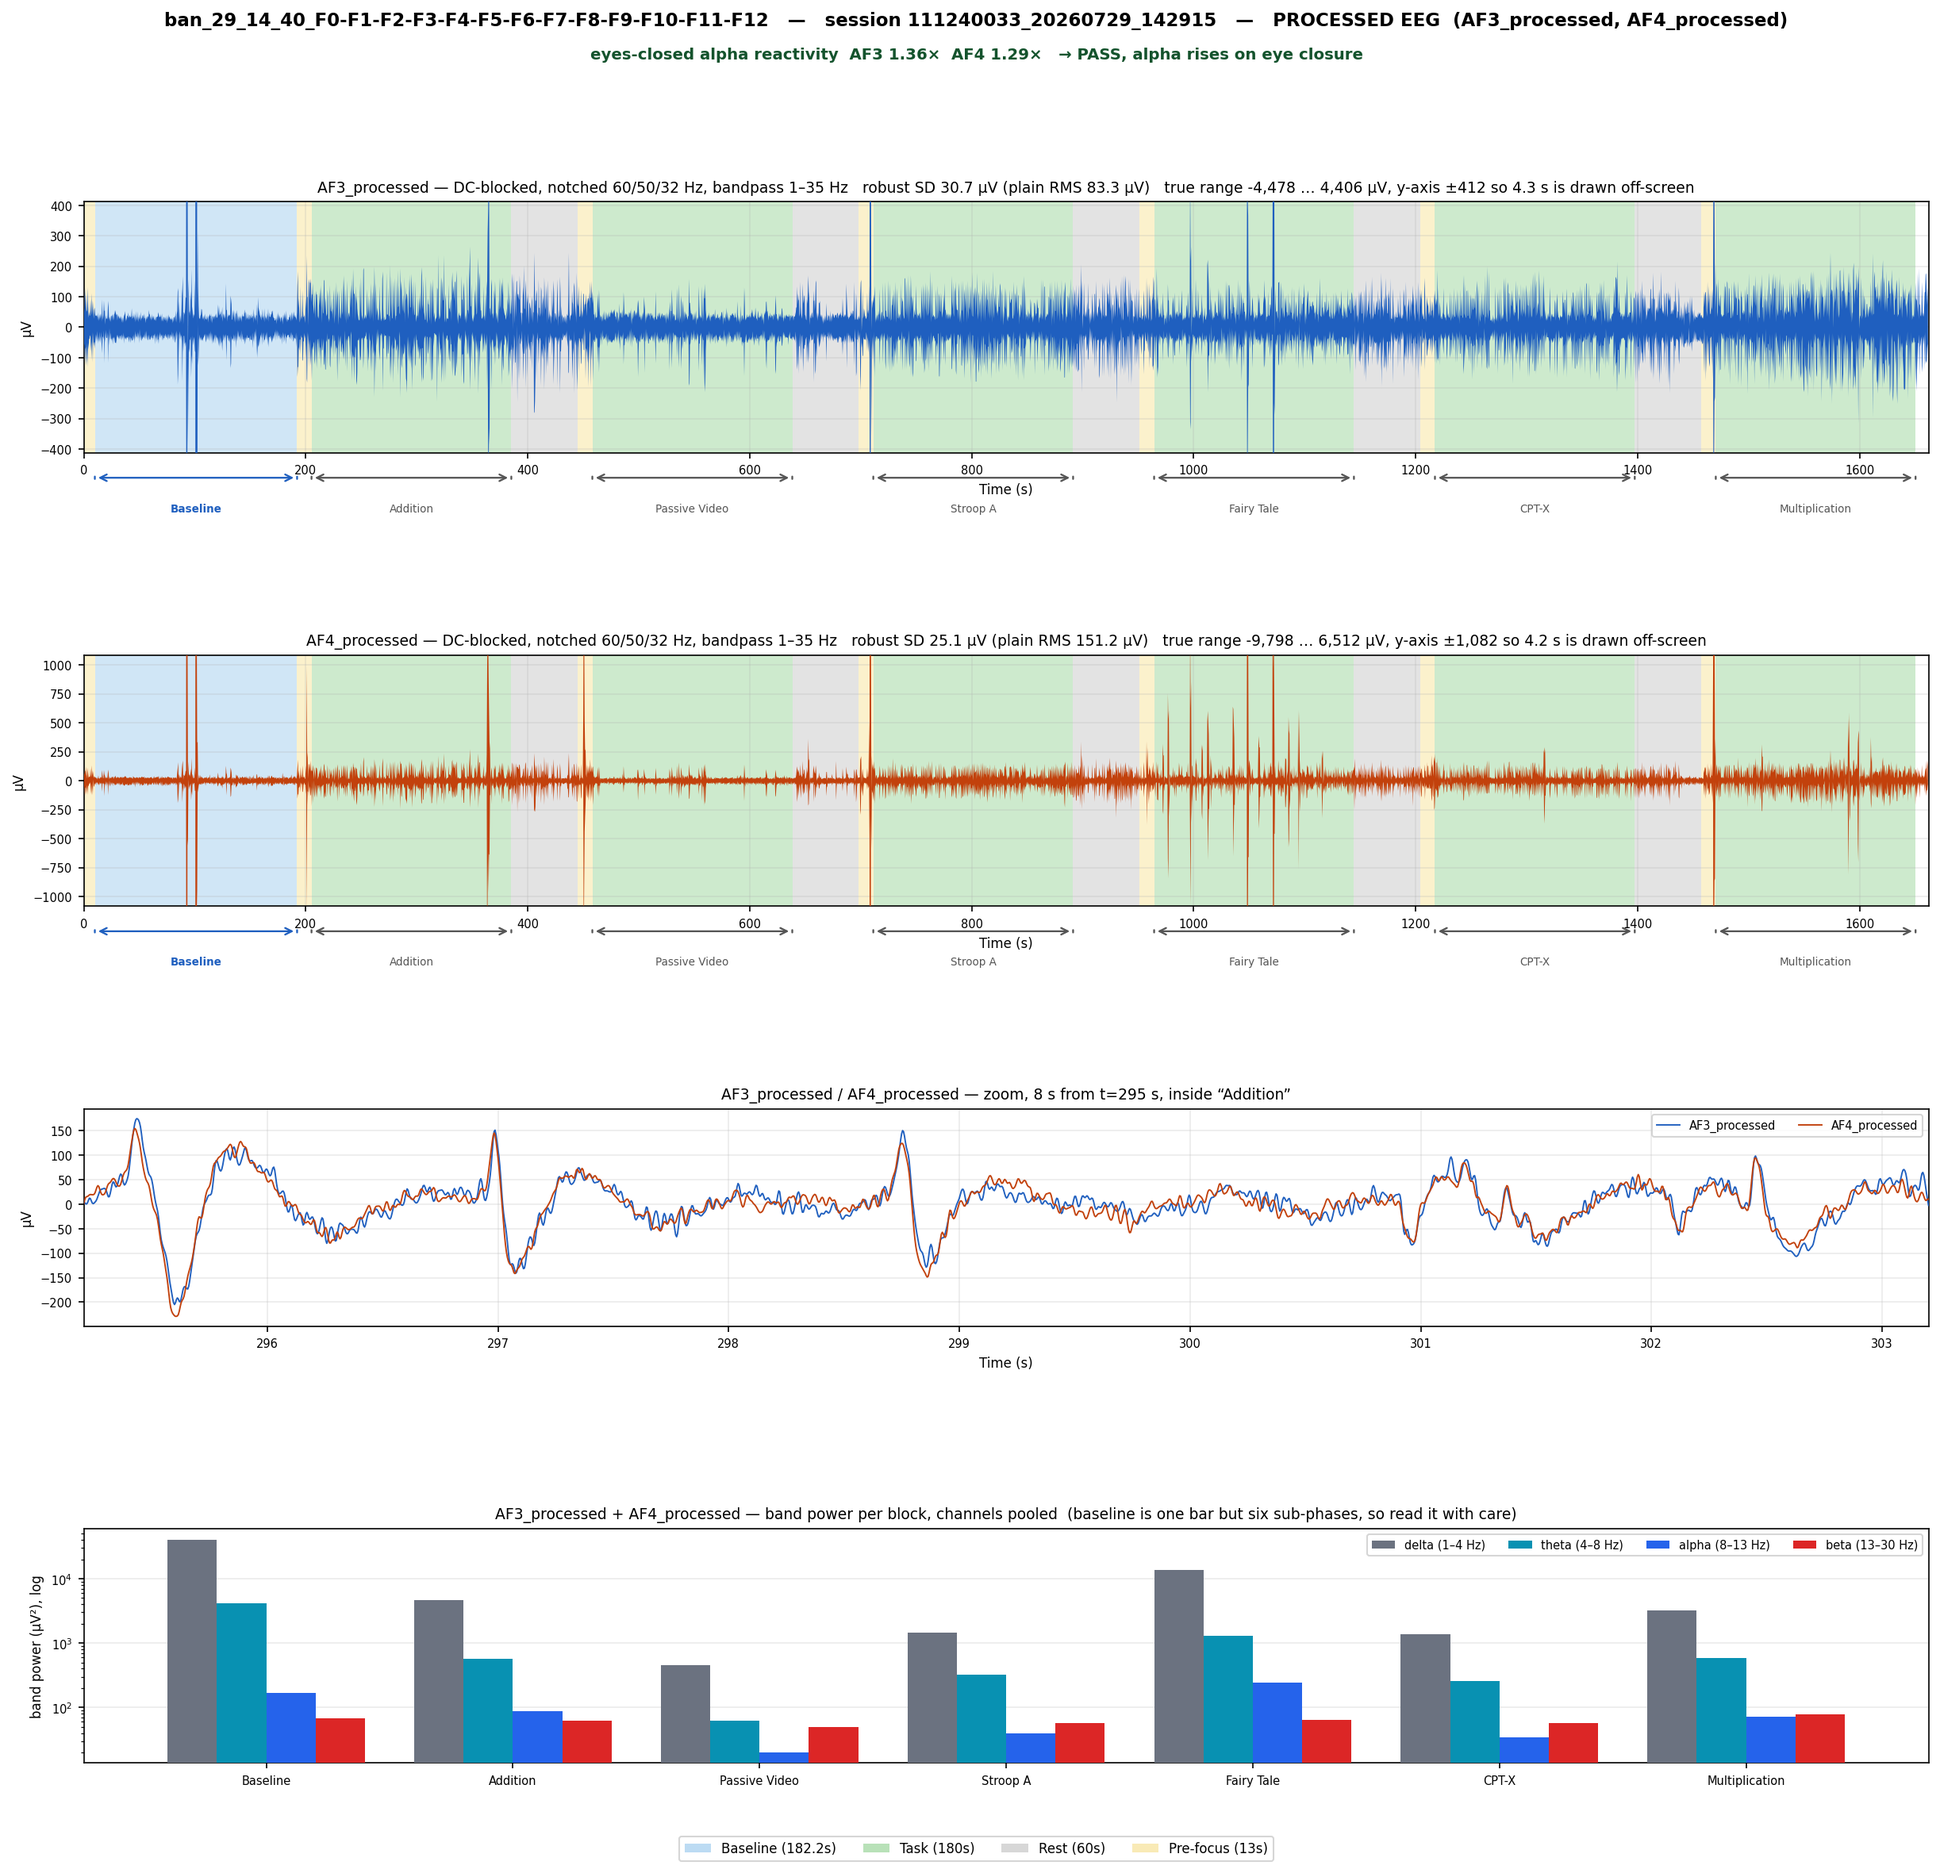
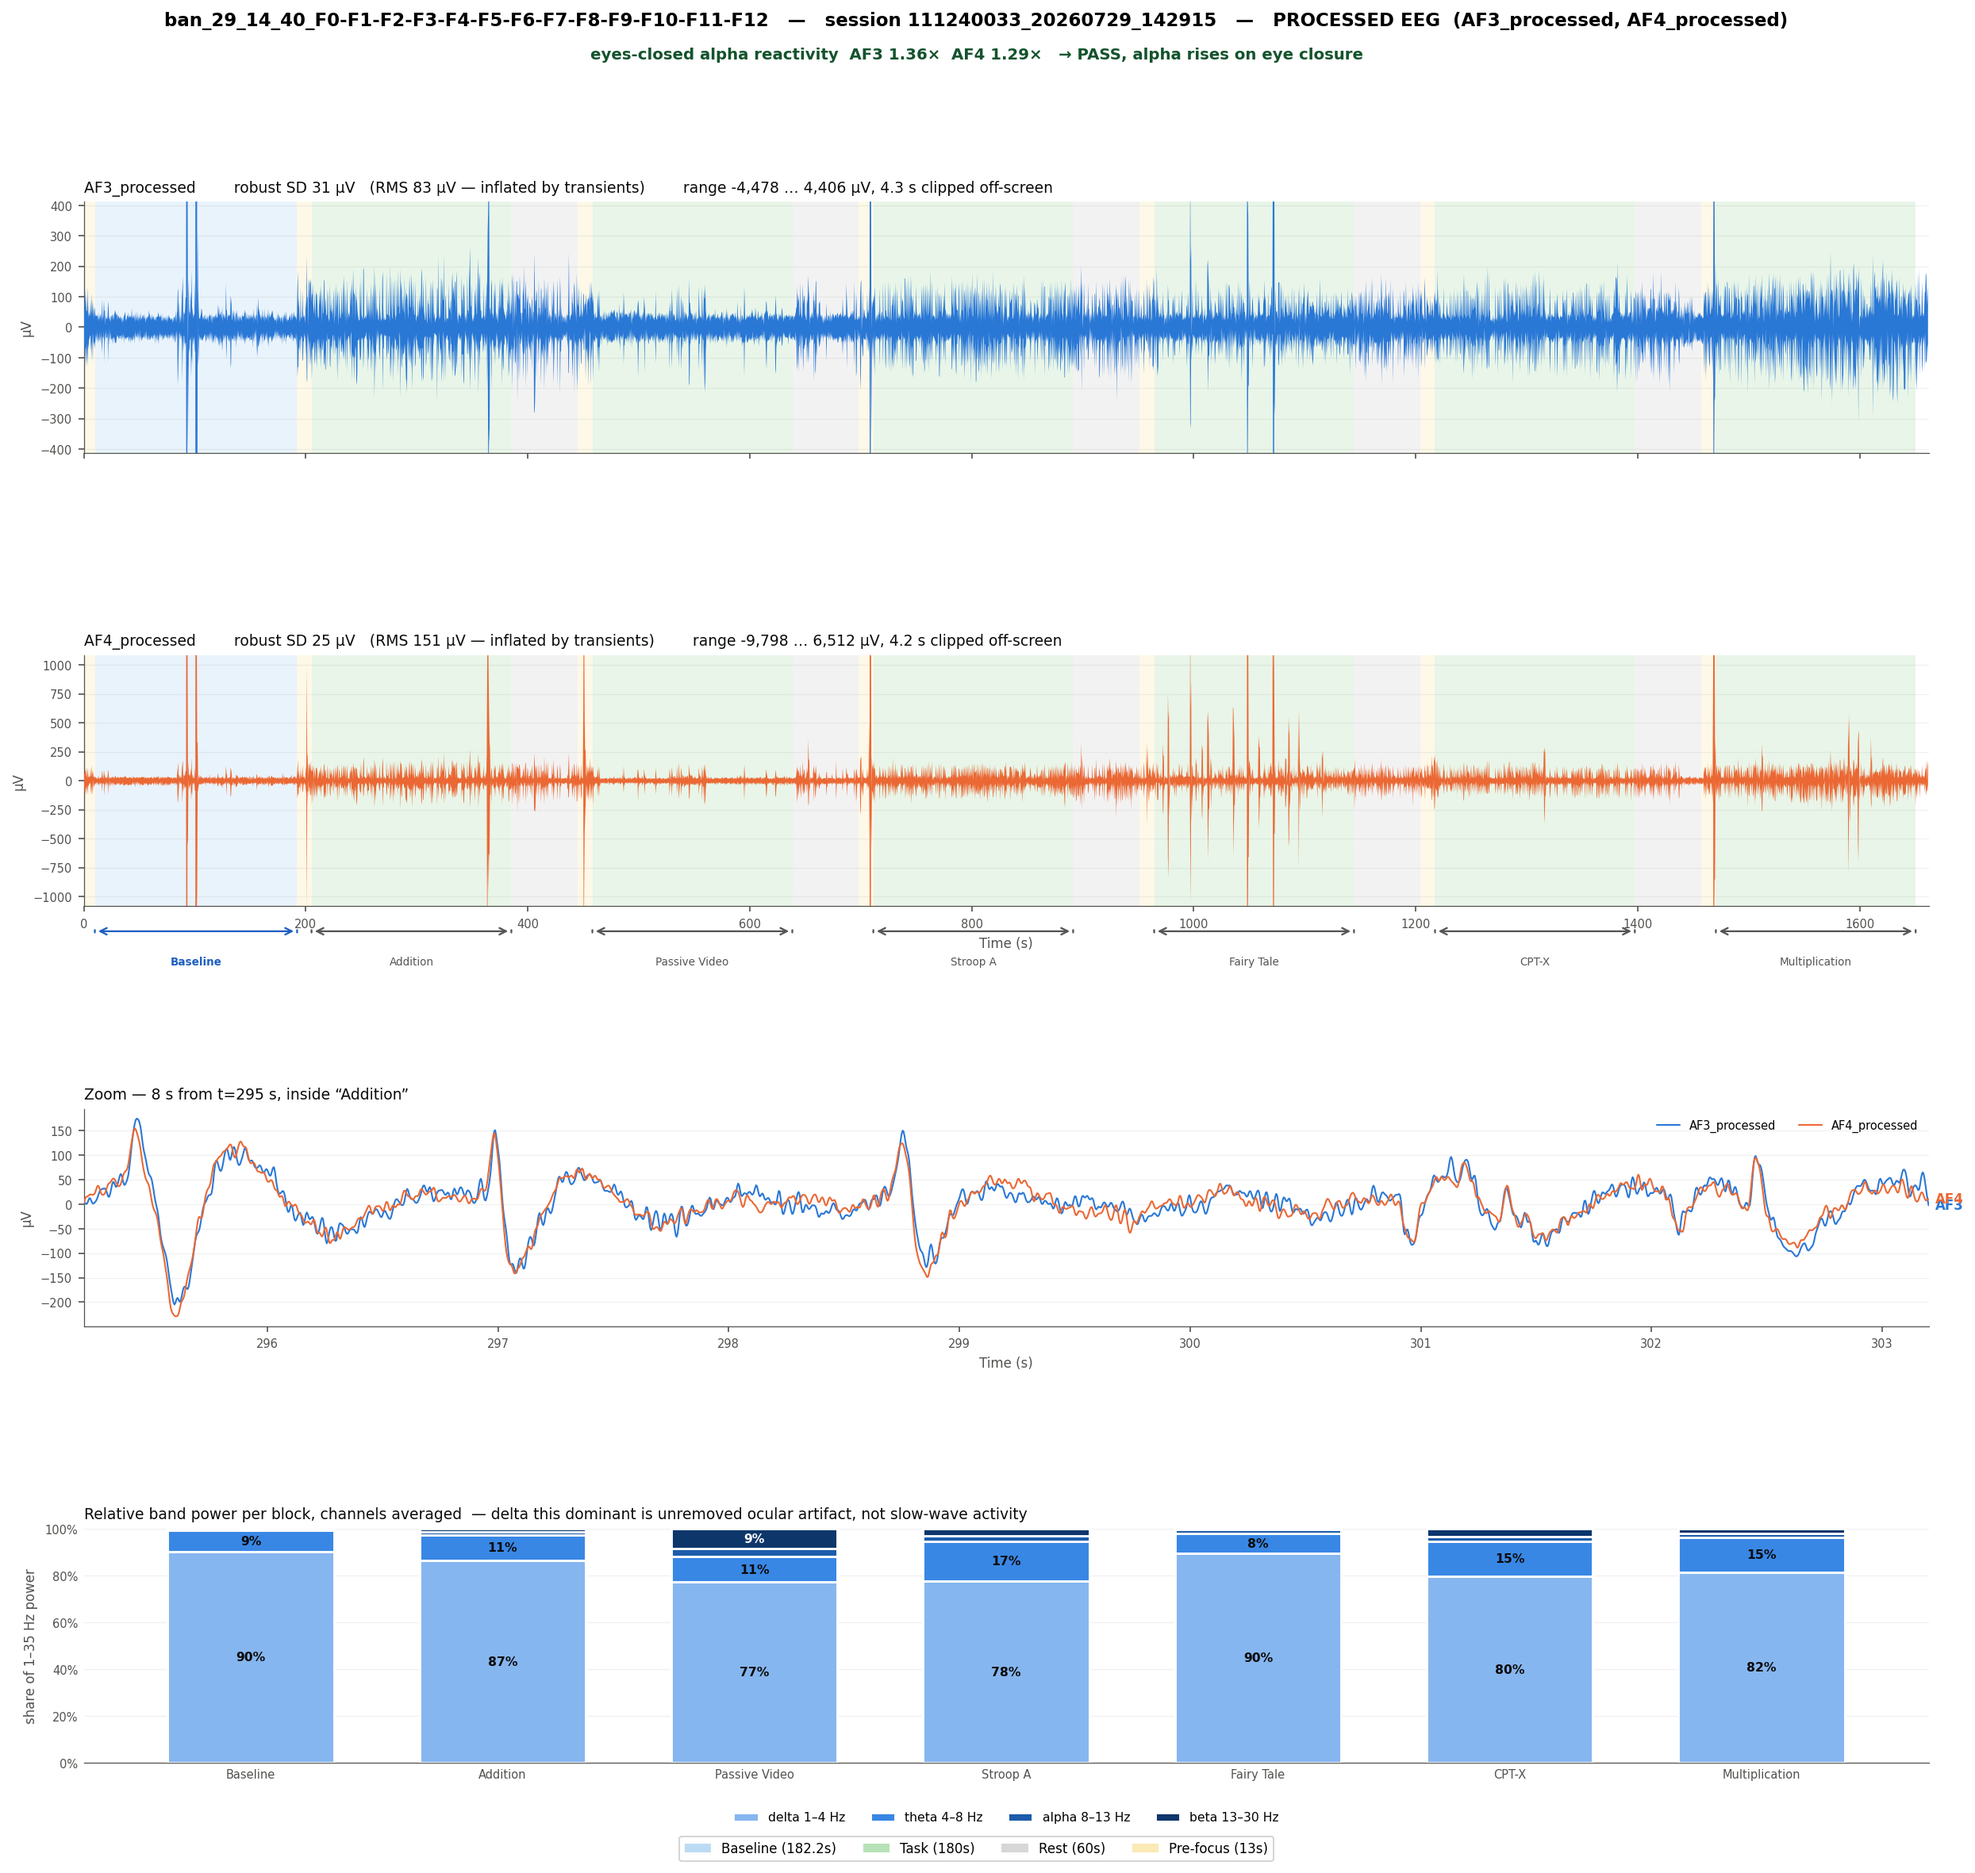
Redesign the EEG figure: relative band power, recessive shading, validated palette
The log-scale grouped bars were the worst part: delta outweighs beta ~100x, so a log axis was the only way absolute values fit, and a log axis makes a 100x gap look like a small step. Replaced with each block's share of 1-35 Hz power as stacked bars - no log axis, sums to 100%, and it answers the actual question. It immediately shows delta at 77-90% of all power, which is unremoved ocular artifact.

Colour now assigned by job and validated rather than picked: AF3/AF4 are categorical slots 1-2 (CVD dE 24.7 vs 8 target, normal-vision 33.6 vs 15 floor); the four frequency bands are ORDERED so they take a one-hue ordinal ramp light-to-dark instead of a rainbow (monotone L, min step gap 0.141, light end 2.06:1, hue spread 3.6deg).

Noise reduction: block shading 0.35 -> 0.16 so the trace reads over it, one block ruler under the stacked pair instead of one per panel, top/right spines dropped, thinner y-only grid, left-aligned shorter titles, direct labels on the zoom traces. shade_timeline gained alpha= and annotate= with backward-compatible defaults, so the summary and FI figures are unchanged.

diff --git a/code/analysis/plot_eeg.py b/code/analysis/plot_eeg.py
@@ -79,11 +79,23 @@ BEHAVIORS_DIR = os.path.join(REPO_ROOT, "code", "results", "behaviors")
 EDF_DIR       = os.path.join(REPO_ROOT, "data", "derived", "eeg_bl", "edf")
 GRAPH_DIR     = os.path.join(REPO_ROOT, "graph", "eeg_bl")
 
-BANDS = [("delta", 1, 4, "#6b7280"), ("theta", 4, 8, "#0891b2"),
-         ("alpha", EEG_ALPHA[0], EEG_ALPHA[1], "#2563eb"),
-         ("beta", EEG_BETA[0], EEG_BETA[1], "#dc2626")]
+#: Frequency bands are ORDERED (delta → beta), so they take a one-hue ordinal
+#: ramp light→dark rather than four categorical hues — a rainbow here would imply
+#: the bands are unrelated categories. Steps 250/400/550/700 of the blue ramp;
+#: validated ordinal (monotone L, min step gap 0.141 ≥ 0.06, light end 2.06:1 ≥ 2.0,
+#: hue spread 3.6°).
+BANDS = [("delta", 1, 4, "#86b6ef"),
+         ("theta", 4, 8, "#3987e5"),
+         ("alpha", EEG_ALPHA[0], EEG_ALPHA[1], "#1c5cab"),
+         ("beta", EEG_BETA[0], EEG_BETA[1], "#0d366b")]
 
-CH_COLORS = {"AF3": "#1f5fbf", "AF4": "#c2410c"}
+#: Two channels = categorical identity, same hue for the same channel in every
+#: panel. Slots 1 and 2; validated categorical (CVD ΔE 24.7 ≥ 8 target,
+#: normal-vision ΔE 33.6 ≥ 15 floor, both ≥ 3:1 on the light surface).
+CH_COLORS = {"AF3": "#2a78d6", "AF4": "#eb6834"}
+
+SHADE_ALPHA = 0.16        # recessive: the blocks are context, the trace is data
+INK = "#52514e"           # axis/grid ink, kept off pure black
 
 
 def find_edf(stem):
@@ -190,22 +202,32 @@ def plot_recording(stem, edf_path, quality, windows, title, save_path,
         ax = fig.add_subplot(gs[i])
         x = proc[ch]
         t, lo, hi = envelope(x, fs)
-        shade_timeline(ax, windows, x_scale=1.0, x_max=dur)
+        # Only the lower of the two shares the block ruler — repeating it under
+        # every panel is four copies of one axis.
+        shade_timeline(ax, windows, x_scale=1.0, x_max=dur,
+                       alpha=SHADE_ALPHA, annotate=(i == 1))
         ax.fill_between(t, lo, hi, color=CH_COLORS[ch], lw=0, zorder=3)
         ax.set_xlim(0, dur)
         ylo, yhi = robust_ylim(x)
         ax.set_ylim(ylo, yhi)
         off = float(np.mean(np.abs(x) > yhi)) * len(x) / fs      # seconds off-screen
-        ax.set_title(f"{ch}_processed — DC-blocked, notched 60/50/32 Hz, "
-                     f"bandpass 1–35 Hz   robust SD {robust_sd(x):.1f} µV "
-                     f"(plain RMS {np.std(x):.1f} µV)   "
-                     f"true range {np.nanmin(x):,.0f} … {np.nanmax(x):,.0f} µV, "
-                     f"y-axis ±{yhi:,.0f} so {off:.1f} s is drawn off-screen",
-                     fontsize=9)
-        ax.set_xlabel("Time (s)", fontsize=8)
-        ax.set_ylabel("µV", fontsize=8)
-        ax.grid(True, alpha=0.25, zorder=0)
-        ax.tick_params(labelsize=7)
+        ax.set_title(f"{ch}_processed        robust SD {robust_sd(x):.0f} µV   "
+                     f"(RMS {np.std(x):.0f} µV — inflated by transients)        "
+                     f"range {np.nanmin(x):,.0f} … {np.nanmax(x):,.0f} µV, "
+                     f"{off:.1f} s clipped off-screen",
+                     fontsize=9, color="#0b0b0b", loc="left")
+        ax.set_ylabel("µV", fontsize=8, color=INK)
+        if i == 1:
+            ax.set_xlabel("Time (s)", fontsize=8, color=INK)
+        else:
+            ax.tick_params(labelbottom=False)
+        ax.grid(True, axis="y", alpha=0.18, lw=0.6, zorder=0)
+        ax.tick_params(labelsize=7, colors=INK)
+        for s in ("top", "right"):
+            ax.spines[s].set_visible(False)
+        for s in ("left", "bottom"):
+            ax.spines[s].set_color(INK)
+            ax.spines[s].set_linewidth(0.6)
 
     # ── Panel 3: zoom, where rhythms are resolvable ──────────────────────────
     ax3 = fig.add_subplot(gs[2])
@@ -213,41 +235,73 @@ def plot_recording(stem, edf_path, quality, windows, title, save_path,
     tz = np.arange(s0, min(s1, len(proc["AF3"]))) / fs
     for ch in ("AF3", "AF4"):
         seg = proc[ch][s0:s1][:len(tz)]
-        ax3.plot(tz, seg, lw=0.9, color=CH_COLORS[ch], zorder=4,
-                 label=f"{ch}_processed")
+        ax3.plot(tz, seg, lw=1.0, color=CH_COLORS[ch], zorder=4,
+                 label=f"{ch}_processed", solid_capstyle="round")
+        # Direct label at the trace end, so identity is not legend-only.
+        ax3.annotate(ch, xy=(tz[-1], seg[-1]), xytext=(4, 0),
+                     textcoords="offset points", va="center", fontsize=8,
+                     fontweight="bold", color=CH_COLORS[ch], annotation_clip=False)
     label = next((w["label"] for w in windows if w["t_start"] <= zoom_at < w["t_end"]), "?")
     ax3.set_xlim(tz[0], tz[-1])
-    ax3.set_title(f"AF3_processed / AF4_processed — zoom, {zoom_len:g} s from "
-                  f"t={zoom_at:.0f} s, inside “{label}”", fontsize=9)
-    ax3.set_xlabel("Time (s)", fontsize=8)
-    ax3.set_ylabel("µV", fontsize=8)
-    ax3.legend(loc="upper right", fontsize=7, ncol=2)
-    ax3.grid(True, alpha=0.25, zorder=0)
-    ax3.tick_params(labelsize=7)
+    ax3.set_title(f"Zoom — {zoom_len:g} s from t={zoom_at:.0f} s, inside “{label}”",
+                  fontsize=9, color="#0b0b0b", loc="left")
+    ax3.set_xlabel("Time (s)", fontsize=8, color=INK)
+    ax3.set_ylabel("µV", fontsize=8, color=INK)
+    ax3.legend(loc="upper right", fontsize=7, ncol=2, frameon=False)
+    ax3.grid(True, axis="y", alpha=0.18, lw=0.6, zorder=0)
+    ax3.tick_params(labelsize=7, colors=INK)
+    for s in ("top", "right"):
+        ax3.spines[s].set_visible(False)
+    for s in ("left", "bottom"):
+        ax3.spines[s].set_color(INK)
+        ax3.spines[s].set_linewidth(0.6)
 
     # ── Panel 4: band power per block ────────────────────────────────────────
+    # RELATIVE power, not absolute on a log axis. Delta outweighs beta by ~100x
+    # here, so a log axis is the only way absolute values fit — and a log axis
+    # makes a 100x gap look like a small step, which is the opposite of the truth.
+    # Shares of the 1-35 Hz total sum to 100% per block, need no log axis, and are
+    # the quantity that actually answers "what changed between blocks".
     ax4 = fig.add_subplot(gs[3])
     labels = [w["label"] for w in blocks]
     xs = np.arange(len(blocks))
-    width = 0.8 / len(BANDS)
+    shares = []
+    for w in blocks:
+        a, b = int(w["t_start"] * fs), int(w["t_end"] * fs)
+        segs = [proc["AF3"][a:b], proc["AF4"][a:b]]
+        v = np.array([band_powers_pooled(segs, fs, lo, hi) for _, lo, hi, _ in BANDS])
+        shares.append(v / v.sum() * 100 if np.isfinite(v).all() and v.sum() else v * np.nan)
+    shares = np.array(shares)
+
+    bottom = np.zeros(len(blocks))
     for bi, (bname, blo, bhi, bcolor) in enumerate(BANDS):
-        vals = []
-        for w in blocks:
-            a, b = int(w["t_start"] * fs), int(w["t_end"] * fs)
-            vals.append(band_powers_pooled(
-                [proc["AF3"][a:b], proc["AF4"][a:b]], fs, blo, bhi))
-        ax4.bar(xs + bi * width - 0.4 + width / 2, vals, width,
-                color=bcolor, label=f"{bname} ({blo}–{bhi} Hz)", zorder=3)
-    ax4.set_yscale("log")
+        vals = shares[:, bi]
+        ax4.bar(xs, vals, 0.66, bottom=bottom, color=bcolor,
+                label=f"{bname} {blo}–{bhi} Hz", zorder=3,
+                edgecolor="white", linewidth=1.4)      # 2px surface gap between segments
+        for xi, (v, bo) in enumerate(zip(vals, bottom)):
+            if np.isfinite(v) and v >= 8:              # selective labels, not every segment
+                ax4.text(xi, bo + v / 2, f"{v:.0f}%", ha="center", va="center",
+                         fontsize=7.5, fontweight="bold",
+                         color="white" if bi >= 2 else "#0b0b0b", zorder=5)
+        bottom += np.nan_to_num(vals)
+
+    ax4.set_ylim(0, 100)
     ax4.set_xticks(xs)
-    ax4.set_xticklabels(labels, fontsize=8)
-    ax4.set_ylabel("band power (µV²), log", fontsize=8)
-    ax4.set_title("AF3_processed + AF4_processed — band power per block, channels pooled  "
-                  "(baseline is one bar but six sub-phases, so read it with care)",
-                  fontsize=9)
-    ax4.legend(loc="upper right", fontsize=7, ncol=4)
-    ax4.grid(True, alpha=0.25, axis="y", zorder=0)
-    ax4.tick_params(labelsize=7)
+    ax4.set_xticklabels(labels, fontsize=8, color=INK)
+    ax4.set_ylabel("share of 1–35 Hz power", fontsize=8, color=INK)
+    ax4.yaxis.set_major_formatter(lambda v, _: f"{v:.0f}%")
+    ax4.set_title("Relative band power per block, channels averaged  "
+                  "— delta this dominant is unremoved ocular artifact, not slow-wave activity",
+                  fontsize=9, color="#0b0b0b", loc="left")
+    ax4.legend(loc="upper center", bbox_to_anchor=(0.5, -0.16), ncol=4,
+               fontsize=7.5, frameon=False)
+    ax4.grid(True, axis="y", alpha=0.18, lw=0.6, zorder=0)
+    ax4.tick_params(labelsize=7, colors=INK, length=0)
+    for s in ("top", "right", "left"):
+        ax4.spines[s].set_visible(False)
+    ax4.spines["bottom"].set_color(INK)
+    ax4.spines["bottom"].set_linewidth(0.6)
 
     handles = [mpatches.Patch(facecolor=c, alpha=0.5, label=l)
                for c, l in timeline_legend(windows)]

diff --git a/code/analysis/utils.py b/code/analysis/utils.py
@@ -311,12 +311,18 @@ def timeline_legend(windows):
 
 
 
-def shade_timeline(ax, windows, x_scale=1.0, arrow_y=-0.10, label_y=-0.20, x_max=None):
+def shade_timeline(ax, windows, x_scale=1.0, arrow_y=-0.10, label_y=-0.20, x_max=None,
+                   alpha=0.35, annotate=True):
     """Colour spans + bracket arrows + labels for each task window.
 
-    x_scale : multiply window times (1.0 = seconds, 1/60 = minutes).
-    x_max   : skip annotations for windows starting at or beyond this value
+    x_scale  : multiply window times (1.0 = seconds, 1/60 = minutes).
+    x_max    : skip annotations for windows starting at or beyond this value
                (prevents bbox expansion for short recordings).
+    alpha    : span opacity. Lower it when the shading sits behind a dense trace
+               that it would otherwise compete with.
+    annotate : draw the bracket arrows and block labels. Set False on stacked
+               panels that share one x-axis, so the ruler is drawn once at the
+               bottom rather than repeated under every panel.
     """
     tick_half = 0.018
 
@@ -338,9 +344,9 @@ def shade_timeline(ax, windows, x_scale=1.0, arrow_y=-0.10, label_y=-0.20, x_max
             num_match = re.search(r"\d+", w["label"])
             num = int(num_match.group()) if num_match else 1
             color = WIN_COLORS["task_odd"] if num % 2 == 1 else WIN_COLORS["task_even"]
-        ax.axvspan(x0, x1_draw, alpha=0.35, color=color, lw=0)
+        ax.axvspan(x0, x1_draw, alpha=alpha, color=color, lw=0)
 
-        if w["is_interval"] or w.get("is_prefocus"):
+        if not annotate or w["is_interval"] or w.get("is_prefocus"):
             continue
 
         arrow_color = "#1f5fbf" if w["is_baseline"] else "#555555"
